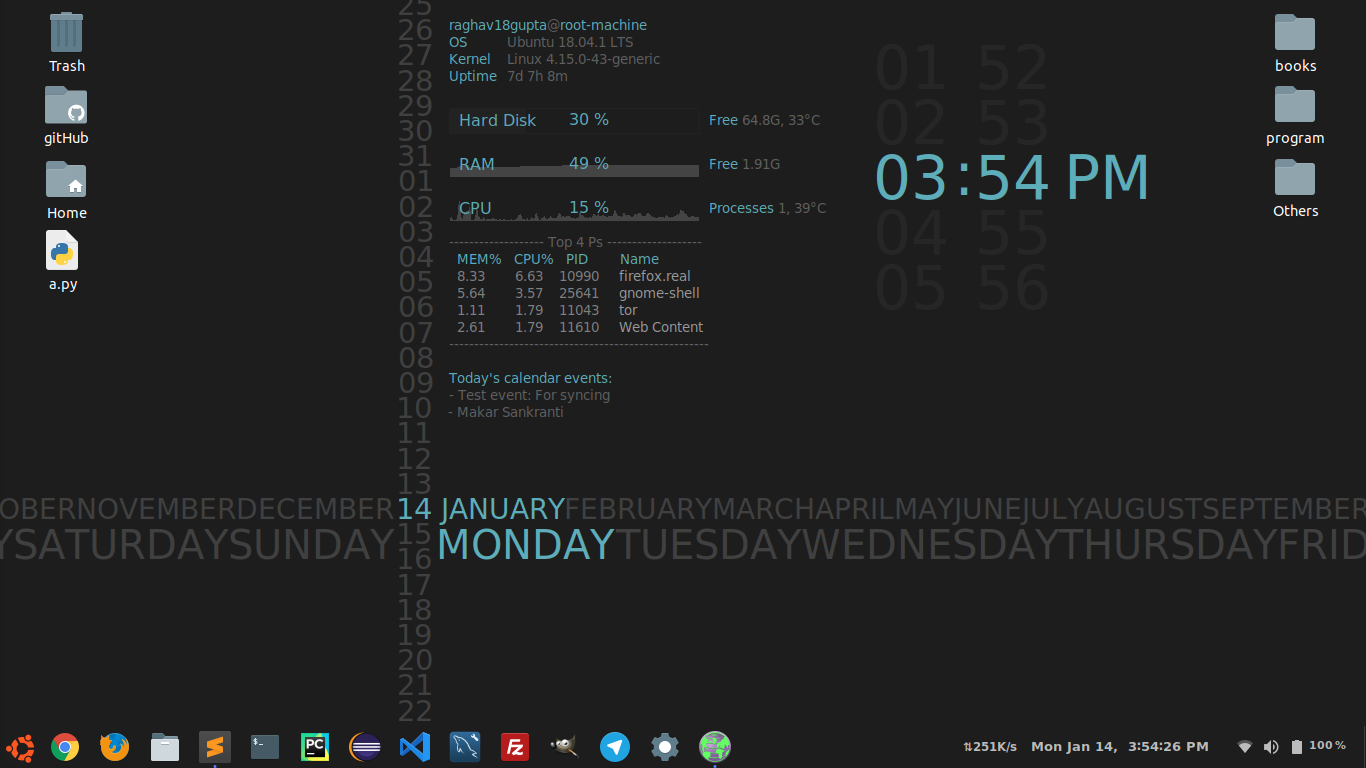
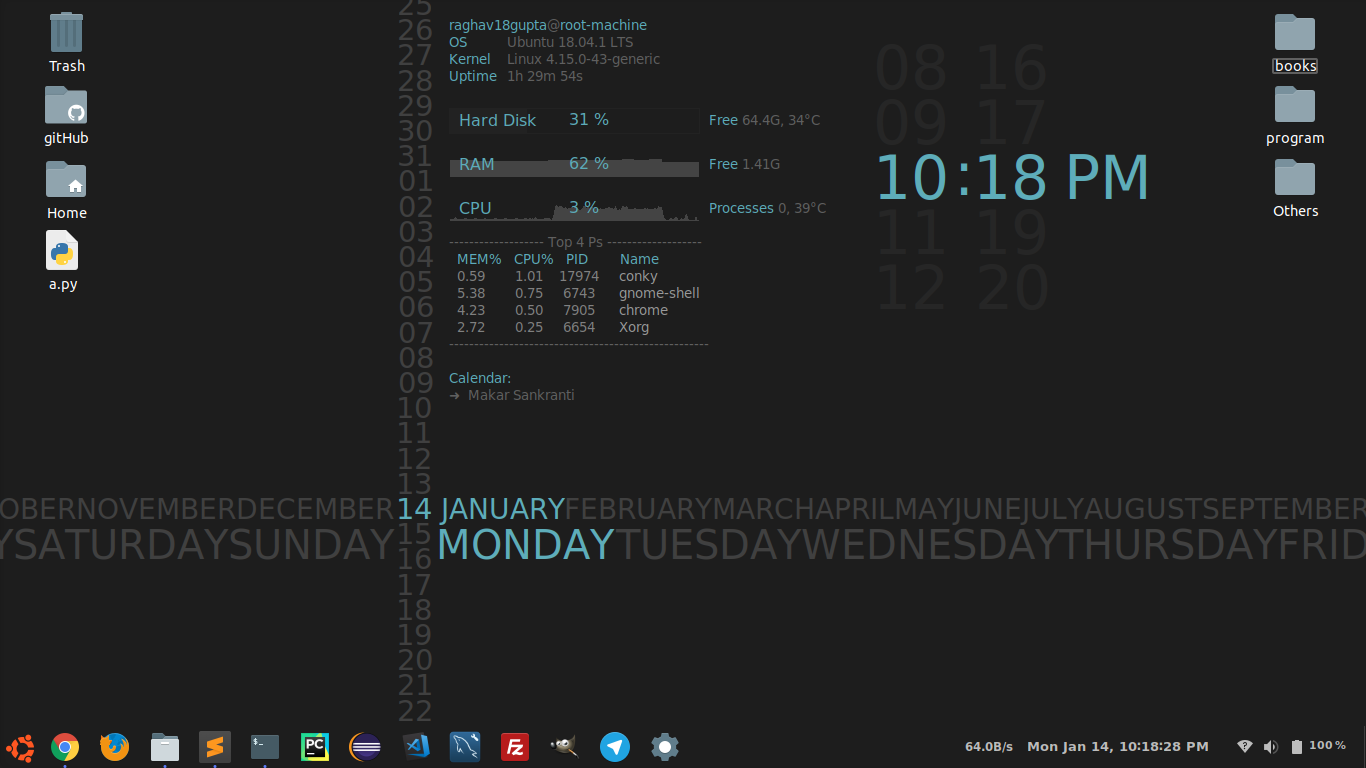
Fixed Encoding error

diff --git a/events.py b/events.py
@@ -1,3 +1,4 @@
+# -*- coding: utf-8 -*-
 import subprocess
 import pickle
 
@@ -12,11 +13,11 @@ try:
 
     if 'No Events Found...' not in contacts:
         for event in contacts[16:].split('\n')[:-2]:
-            output.append('- ' + event.strip())
+            output.append(event.strip())
 
     if 'No Events Found...' not in holiday:
         for event in holiday[16:].split('\n')[:-2]:
-            output.append('- ' + event.strip())
+            output.append(event.strip())
 
     if output == []:
         output.append('No e vent today')
@@ -27,5 +28,7 @@ try:
 except:
     with open('/home/raghav18gupta/Desktop/gitHub/projects/conky-cust/pkl.pkl', 'rb') as f:
         output = pickle.load(f)
-    output.append('⚠ Connect to internet')
-print('|'.join(output))
+    print(r'✘ Connect to internet')
+
+for event in output:
+    print(r'➜ ', event)
